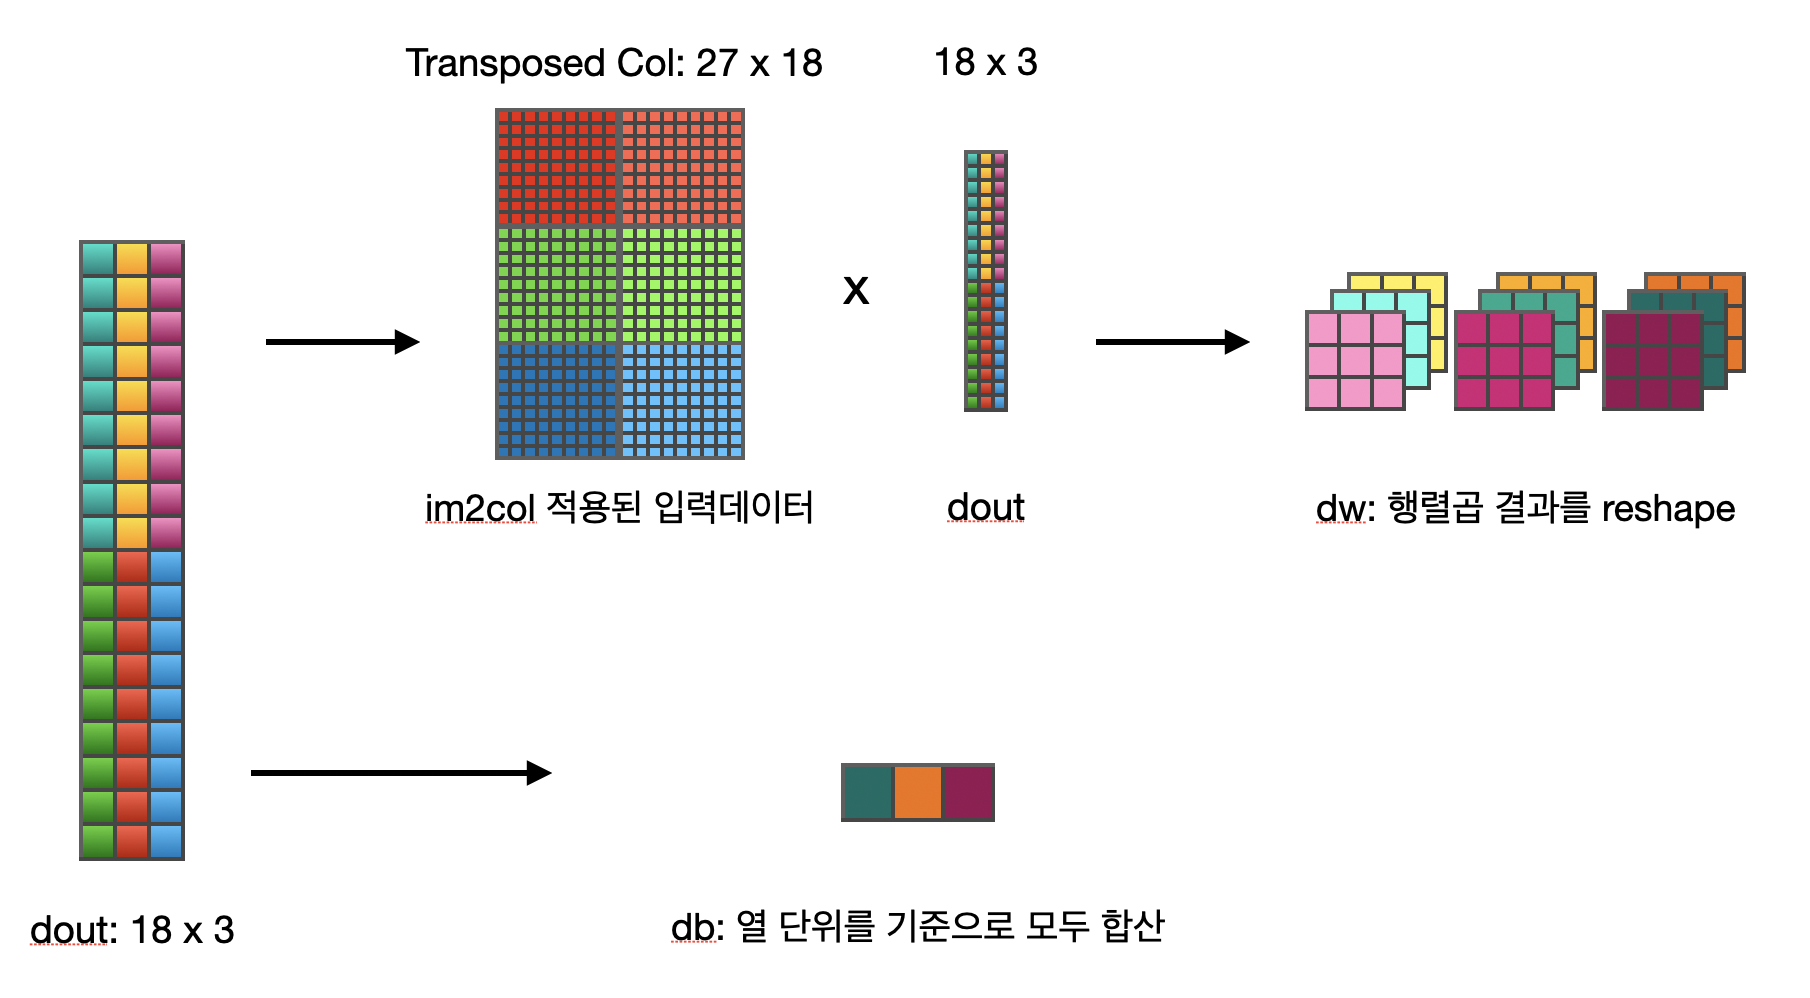
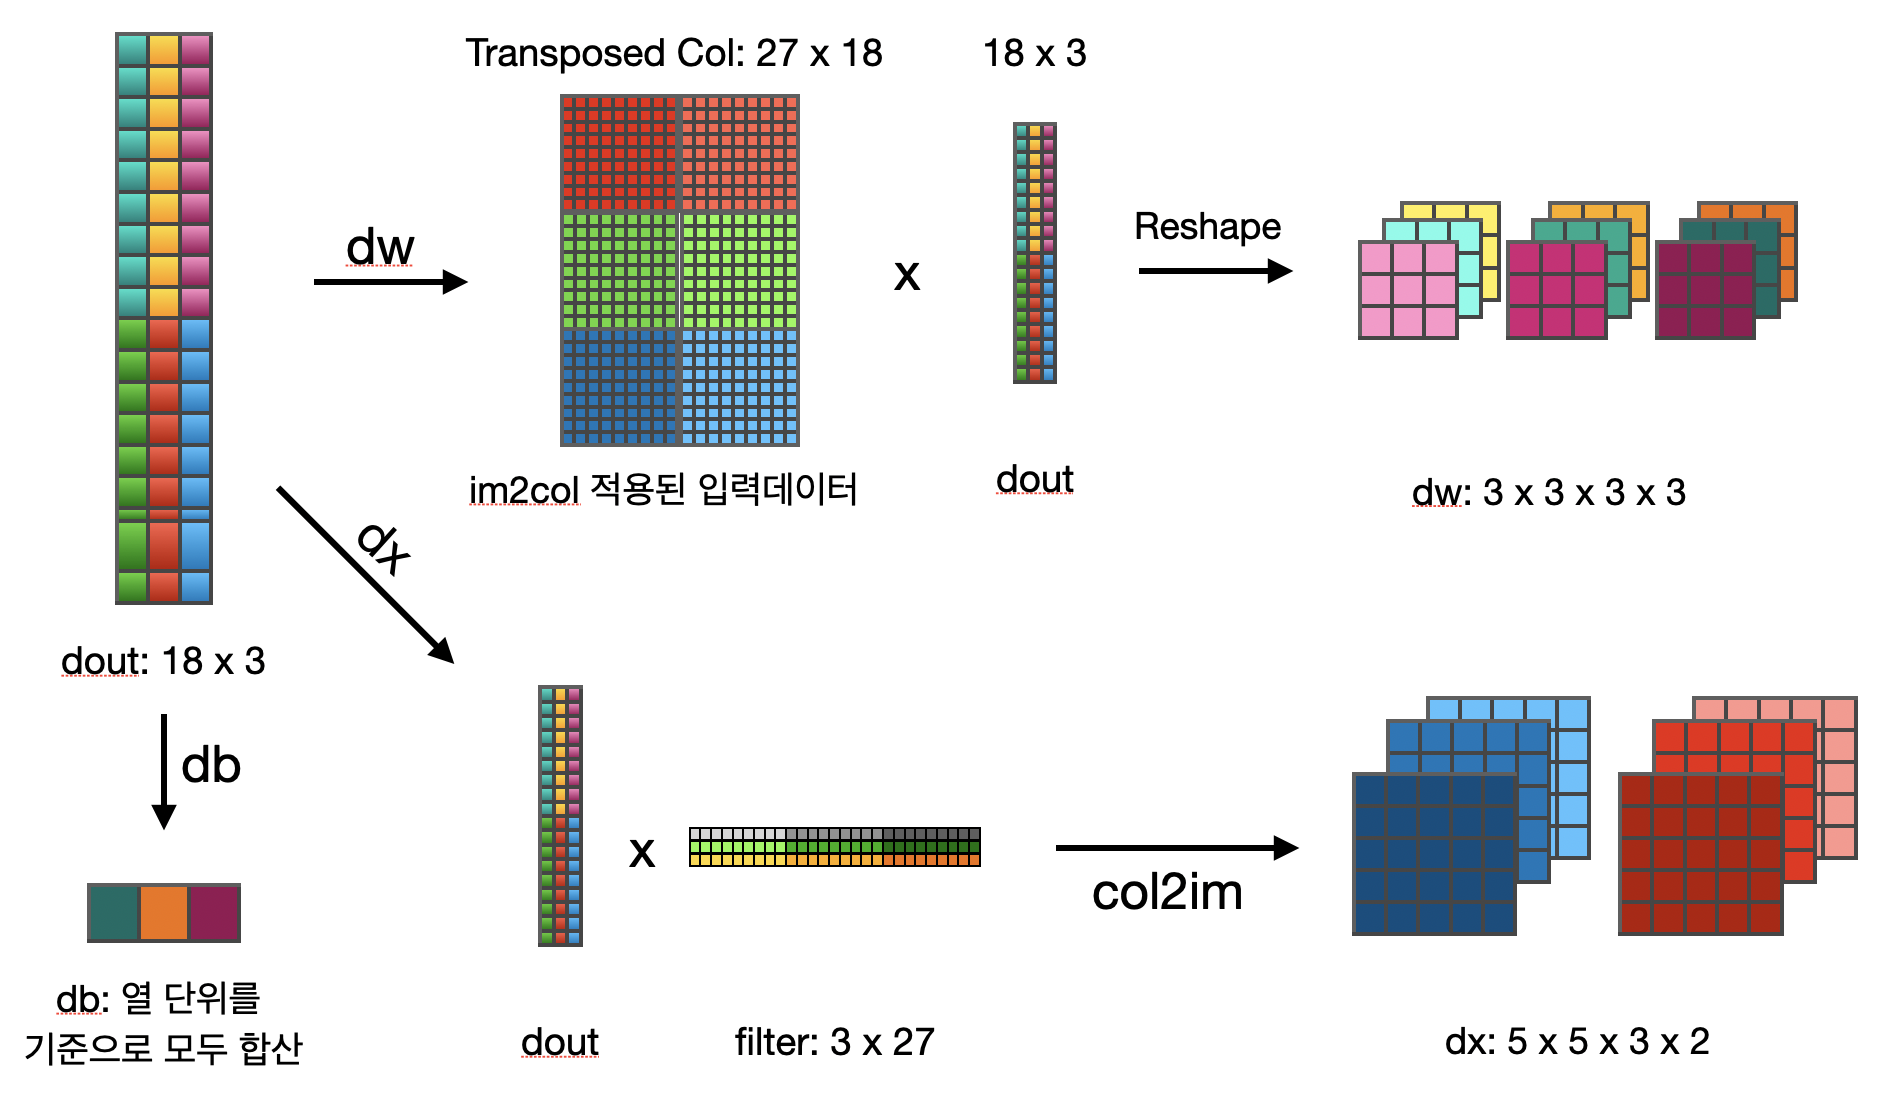
Site updated: 2020-07-20 15:26:03

diff --git a/2020/07/14/Deeplearning-17/index.html b/2020/07/14/Deeplearning-17/index.html
@@ -56,7 +56,7 @@
 <meta property="og:image" content="https://hyeonji-ryu.github.io/images/78.png">
 <meta property="og:image" content="https://hyeonji-ryu.github.io/images/79.png">
 <meta property="article:published_time" content="2020-07-14T08:50:32.000Z">
-<meta property="article:modified_time" content="2020-07-20T05:04:26.646Z">
+<meta property="article:modified_time" content="2020-07-20T06:25:56.636Z">
 <meta property="article:author" content="Hyeonji Ryu">
 <meta property="article:tag" content="딥러닝">
 <meta property="article:tag" content="Deeplearning">
@@ -251,7 +251,7 @@
                   <i class="fa fa-calendar-check-o"></i>
                 </span>
                 <span class="post-meta-item-text">Edited on</span>
-                <time title="Updated at: 2020-07-20 14:04:26" itemprop="dateModified" datetime="2020-07-20T14:04:26+09:00">2020-07-20</time>
+                <time title="Updated at: 2020-07-20 15:25:56" itemprop="dateModified" datetime="2020-07-20T15:25:56+09:00">2020-07-20</time>
               </span>
             <span class="post-meta-item">
               <span class="post-meta-item-icon">
@@ -283,9 +283,10 @@
 <figure class="highlight julia"><table><tr><td class="gutter"><pre><span class="line">1</span><br><span class="line">2</span><br><span class="line">3</span><br><span class="line">4</span><br><span class="line">5</span><br><span class="line">6</span><br><span class="line">7</span><br><span class="line">8</span><br><span class="line">9</span><br><span class="line">10</span><br><span class="line">11</span><br><span class="line">12</span><br><span class="line">13</span><br><span class="line">14</span><br><span class="line">15</span><br><span class="line">16</span><br><span class="line">17</span><br><span class="line">18</span><br></pre></td><td class="code"><pre><span class="line"><span class="keyword">function</span> convolution2D_backward(dense ,input, stride, pad)</span><br><span class="line"></span><br><span class="line">    input_r, input_c,input_d,input_num = size(dense.x)</span><br><span class="line">    filter_r, filter_c, filter_d, filter_num = size(dense.w)</span><br><span class="line"></span><br><span class="line">    result = permutedims(input,(<span class="number">3</span>,<span class="number">2</span>,<span class="number">1</span>,<span class="number">4</span>))</span><br><span class="line">    dout = <span class="built_in">Array</span>(reshape(result,filter_num,:)')</span><br><span class="line"></span><br><span class="line">    dense.db = sum(dout,dims=<span class="number">1</span>)</span><br><span class="line">    weight = <span class="built_in">Array</span>(dense.col') * dout</span><br><span class="line">    dense.dw = reshape(weight,size(dense.w))</span><br><span class="line"></span><br><span class="line">    <span class="comment"># 1324 순서</span></span><br><span class="line">    dcol = dout * <span class="built_in">Array</span>(dense.col_w')</span><br><span class="line">    dx = col2im(dense, dcol, filter_r, filter_c, stride, pad)</span><br><span class="line"></span><br><span class="line">    <span class="keyword">return</span> dx</span><br><span class="line"><span class="keyword">end</span></span><br></pre></td></tr></table></figure>
 <p>이제 위 코드의 작동 과정을 하나씩 살펴보자. 먼저 순전파 계산 과정에서 저장해둔 입력데이터의 크기와 필터의 크기를 불러온다. 코드에서 사용된 <code>dense</code>는 순전파 계산에서 각 데이터들을 저장해둔 구조체이다. 구조체에 대해 자세히 알고 싶다면 <a href="https://hyeonji-ryu.github.io/2020/03/15/Think-Julia-Chapter-15/">이 페이지</a>을 읽어보면 좋다. 그 다음으로는 미분값의 차원을 변경하고, 2차원의 배열의 형상으로 바꾼다. 여기서 그 2차원의 형상은 아래의 그림과 같다.</p>
 <p><img src="\../images/78.png" alt="dout"></p>
-<p>위 그림과 같이 미분값은 행은 데이터의 개수, 열은 차원의 개수를 기준으로 2차원 배열로 변경된다. 이를 열을 기준으로 합산하면 편향의 미분값인 <code>db</code>가 완성된다. 또한 순전파 계산에서 사용되었던 입력데이터에 <code>im2col()</code>을 적용한 <code>col</code> 변수를 <code>dense</code>에 저장해두었다가 <code>dw</code>를 구할 때 불러와 사용한다. <code>dw</code>는 <code>col</code>과 <code>dout</code>을 곱한 후, <code>dense.w</code>의 형상으로 변경한다.</p>
+<p>위 그림과 같이 미분값은 행은 데이터의 개수, 열은 차원의 개수를 기준으로 2차원 배열로 변경된다. 이를 열을 기준으로 합산하면 편향의 미분값인 <code>db</code>가 완성된다. 또한 순전파 계산에서 사용되었던 입력데이터에 <code>im2col()</code>을 적용한 <code>col</code> 변수를 <code>dense</code>에 저장해두었다가 <code>dw</code>를 구할 때 불러와 사용한다. <code>dw</code>는 <code>col</code>과 <code>dout</code>을 곱한 후, <code>dense.w</code>의 형상으로 변경한다. 마지막으로 남은 것은 <code>dx</code>이다. <code>grads</code>로 저장되어 이후 가중치와 편향을 갱신할 때 사용되는 <code>dw</code>, <code>db</code>와 달리 <code>dx</code>는 다음 층으로 넘어갈 미분값을 구하는 것이다. 다르게 말하자면, <code>dx</code>는 다음 계층의 <code>dout</code>이 되는 것이다. <code>dx</code>를 구하는 과정에서 <code>col2im()</code>이 사용된다. 이 모든 과정을 그림으로 나타내면 아래와 같다.</p>
 <p><img src="\../images/79.png" alt="dwdb"></p>
-
+<p>만약 <code>col2im()</code>이 어떻게 계산되는지 궁금하다면, 이전 글에서 해당 정보를 찾을 수 있다. 합성곱 역전파 계산에 대해서는 이게 전부이다. 이제는 풀링의 역전파에 대해 살펴보자.</p>
+<h2 id="최대값-풀링-with-col2im"><a href="#최대값-풀링-with-col2im" class="headerlink" title="최대값 풀링 with col2im"></a>최대값 풀링 with col2im</h2>
     </div>
 
     
@@ -376,7 +377,7 @@
 
       <!--noindex-->
       <div class="post-toc-wrap sidebar-panel">
-          <div class="post-toc motion-element"><ol class="nav"><li class="nav-item nav-level-2"><a class="nav-link" href="#합성곱-with-col2im"><span class="nav-number">1.</span> <span class="nav-text">합성곱 with col2im</span></a></li></ol></div>
+          <div class="post-toc motion-element"><ol class="nav"><li class="nav-item nav-level-2"><a class="nav-link" href="#합성곱-with-col2im"><span class="nav-number">1.</span> <span class="nav-text">합성곱 with col2im</span></a></li><li class="nav-item nav-level-2"><a class="nav-link" href="#최대값-풀링-with-col2im"><span class="nav-number">2.</span> <span class="nav-text">최대값 풀링 with col2im</span></a></li></ol></div>
       </div>
       <!--/noindex-->
 

diff --git a/index.html b/index.html
@@ -234,7 +234,7 @@
                   <i class="fa fa-calendar-check-o"></i>
                 </span>
                 <span class="post-meta-item-text">Edited on</span>
-                <time title="Updated at: 2020-07-20 14:04:26" itemprop="dateModified" datetime="2020-07-20T14:04:26+09:00">2020-07-20</time>
+                <time title="Updated at: 2020-07-20 15:25:56" itemprop="dateModified" datetime="2020-07-20T15:25:56+09:00">2020-07-20</time>
               </span>
             <span class="post-meta-item">
               <span class="post-meta-item-icon">
